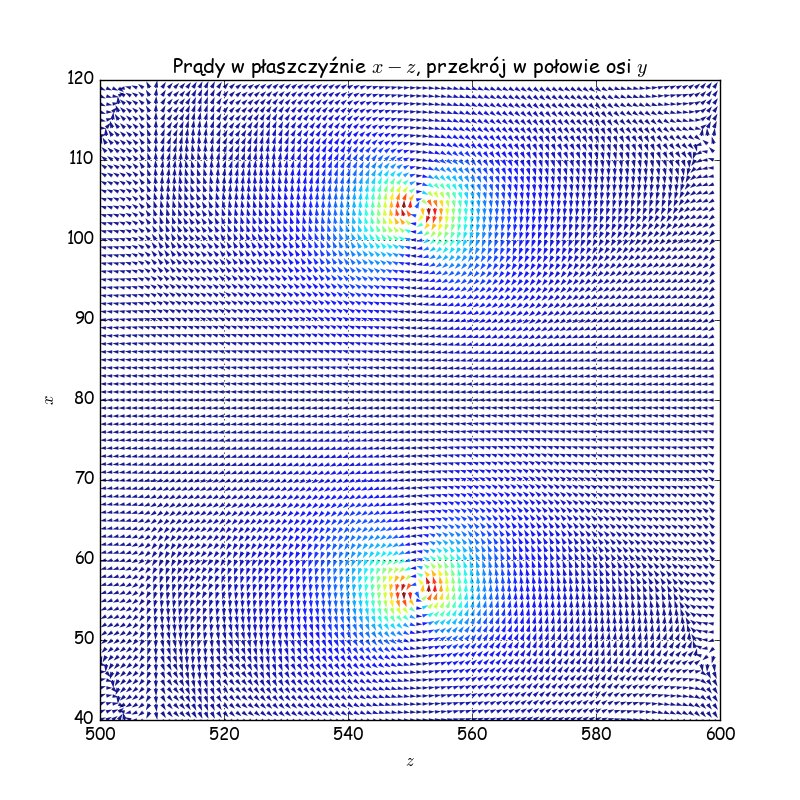
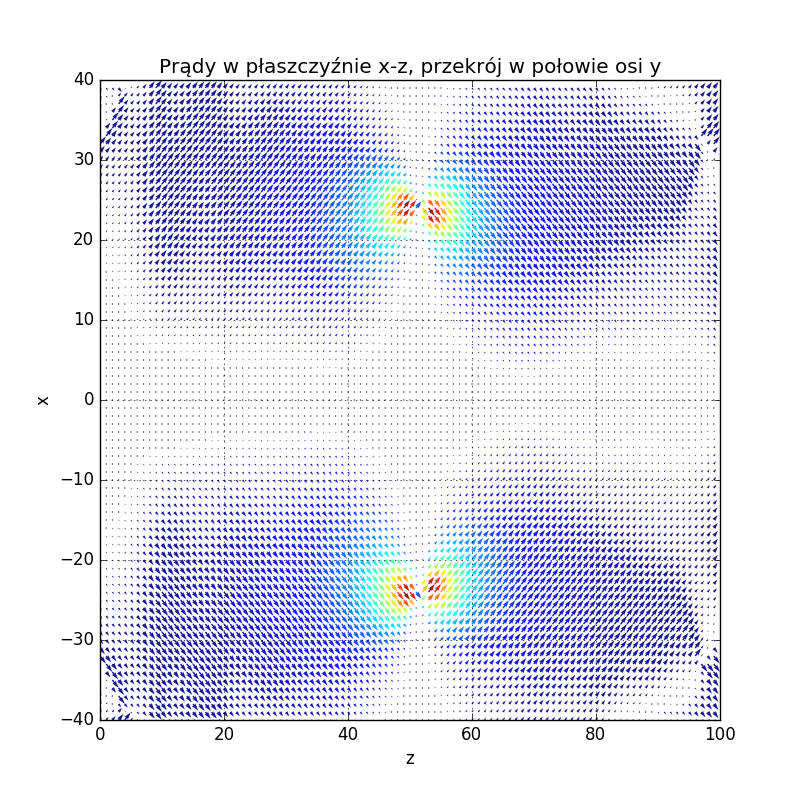
did vector field just change shape

Changed region(s): [[0.0938, 0.0625, 0.9062, 0.9375], [0.875, 0.9062, 0.9062, 0.9375], [0.5, 0.9375, 0.5312, 0.9688]]

diff --git a/pole_wektorowe_L.py b/pole_wektorowe_L.py
@@ -1,17 +1,9 @@
-# -*- coding: utf-8 -*-
-"""
-Created on Thu Mar 24 12:49:42 2016
-
-@author: Mateusz
-"""
-
-from __future__ import print_function
 import numpy as np
 import matplotlib.pyplot as plt
-import matplotlib.cm as cm
 from matplotlib import rcParams
-rcParams['font.family'] = 'Comic Sans MS'
+rcParams['font.family'] = 'DejaVu Sans'
 import h5py
+
 nx = ny = 160
 nz = 1000
 dx = dy = dz = 1
@@ -23,30 +15,37 @@ NX, NY, NZ = nx, ny, nz
 # Y -= int(NY/2)
 # Z -= int(NZ/2)
 
-with h5py.File("../data.hdf5", "r+") as f:
-    j = int(ny/2)
+with h5py.File("data.hdf5") as f:
+    i = int(ny/2)
     x_min = 40
     x_max = 120
     z_min = 500
     z_max = 600
-    X = X[j,x_min:x_max,z_min:z_max]
-    Y = Y[j,x_min:x_max,z_min:z_max]
-    Z = Z[j,x_min:x_max,z_min:z_max]
-    print(X, Y, Z, sep='\n')
-    Currents_z = f['currentsz'][j,x_min:x_max,z_min:z_max].real
-    Currents_y = f['currentsy'][j,x_min:x_max,z_min:z_max].real
-    Currents_x = f['currentsx'][j,x_min:x_max,z_min:z_max].real
-    print(Currents_x.shape, np.min(Currents_x), np.max(Currents_x), np.mean(Currents_x))
+    nz = f.attrs['ZN']
+    nx, ny = f.attrs['XN'], f.attrs['YN']
+
+    X = f['X'][:,x_min:x_max,z_min:z_max]
+    Z = f['Z'][:,x_min:x_max,z_min:z_max]
+    Currents_z = f['currentsz'][:,x_min:x_max,z_min:z_max]
+    Currents_y = f['currentsy'][:,x_min:x_max,z_min:z_max]
+    Currents_x = f['currentsx'][:,x_min:x_max,z_min:z_max]
+    lengths_2d = np.hypot(Currents_x,Currents_z)
+    arrows_values = np.hypot(Currents_x,Currents_y,Currents_z)
+    arrows_horizontal = Currents_z/lengths_2d
+    arrows_vertical = Currents_x/lengths_2d
+
+    fig, vector_ax = plt.subplots(figsize=(8,8))
     every_n_point = 1
     def thin(X):
         return X[::every_n_point, ::every_n_point]
 
-    fig, vector_ax = plt.subplots(figsize=(8,8))
-    vector_ax.set_title("Prądy w płaszczyźnie $x-z$, przekrój w połowie osi $y$")
+    vector_ax.set_title(u"Prądy w płaszczyźnie x-z, przekrój w połowie osi y")
     vector_ax.grid()
-    vector_ax.quiver(thin(Z), thin(X), thin(Currents_z/np.hypot(Currents_x,Currents_z)), thin(Currents_x/np.hypot(Currents_x,Currents_z)), thin(np.hypot(Currents_x, Currents_y, Currents_z)), scale_units='xy', scale=1, angles='xy', alpha=0.9)
-    vector_ax.set_xlabel("$z$")
-    vector_ax.set_ylabel("$x$")
-    plt.savefig("wektor.png")
-    plt.savefig("wektor.pdf")
+    vector_ax.quiver(thin(Z[i, :, :]), thin(X[i, :, :]),
+        thin(arrows_horizontal[i, :, :]), thin(arrows_vertical[i, :, :]),
+        thin(arrows_values[i, :, :]), scale_units='xy', scale=1, angles='xy',
+        alpha=0.9)
+    vector_ax.set_xlabel(u"z")
+    vector_ax.set_ylabel(u"x")
+    plt.savefig("grafika/wektor.png")
     plt.show()

diff --git a/animation_density.py b/animation_density.py
@@ -1,9 +1,11 @@
 import numpy as np
 import matplotlib.pyplot as plt
 from matplotlib import animation as ani
+from matplotlib import rcParams
+rcParams['font.family'] = 'DejaVu Sans'
 import h5py
 
-def animate_density():
+def animate_density(save=False):
     with h5py.File("data.hdf5") as f:
         Xmin = f.attrs['Xmin']
         Xmax = f.attrs['Xmax']
@@ -15,7 +17,7 @@ def animate_density():
         z = f['Z'][0,0,:]
     fig, axes = plt.subplots()
     IM = axes.imshow(density[:,:,0], origin='upper', vmin=np.min(density), vmax=np.max(density), extent=(Xmin,Xmax,Ymin,Ymax))
-    axes.set_title("przekroj w plaszczyznie z")
+    axes.set_title("Przekrój w płaszczyźnie z")
     text = axes.text(0.95*Xmin, 0.9*Ymax, "z = {}".format(Zmin), color=(1,1,1,1))
     axes.set_xlabel("x")
     axes.set_ylabel("y")
@@ -31,7 +33,8 @@ def animate_density():
 
     fig.colorbar(IM, orientation="vertical")
     anim = ani.FuncAnimation(fig, animate, interval=10, frames=ZN, blit=True, init_func=init)
-    anim.save("animation.mp4", fps=30, extra_args=['-vcodec', 'libx264'])
+    if save:
+        anim.save("grafika/animation_density.mp4", fps=30, extra_args=['-vcodec', 'libx264'])
     plt.show()
 
 if __name__ == "__main__":
